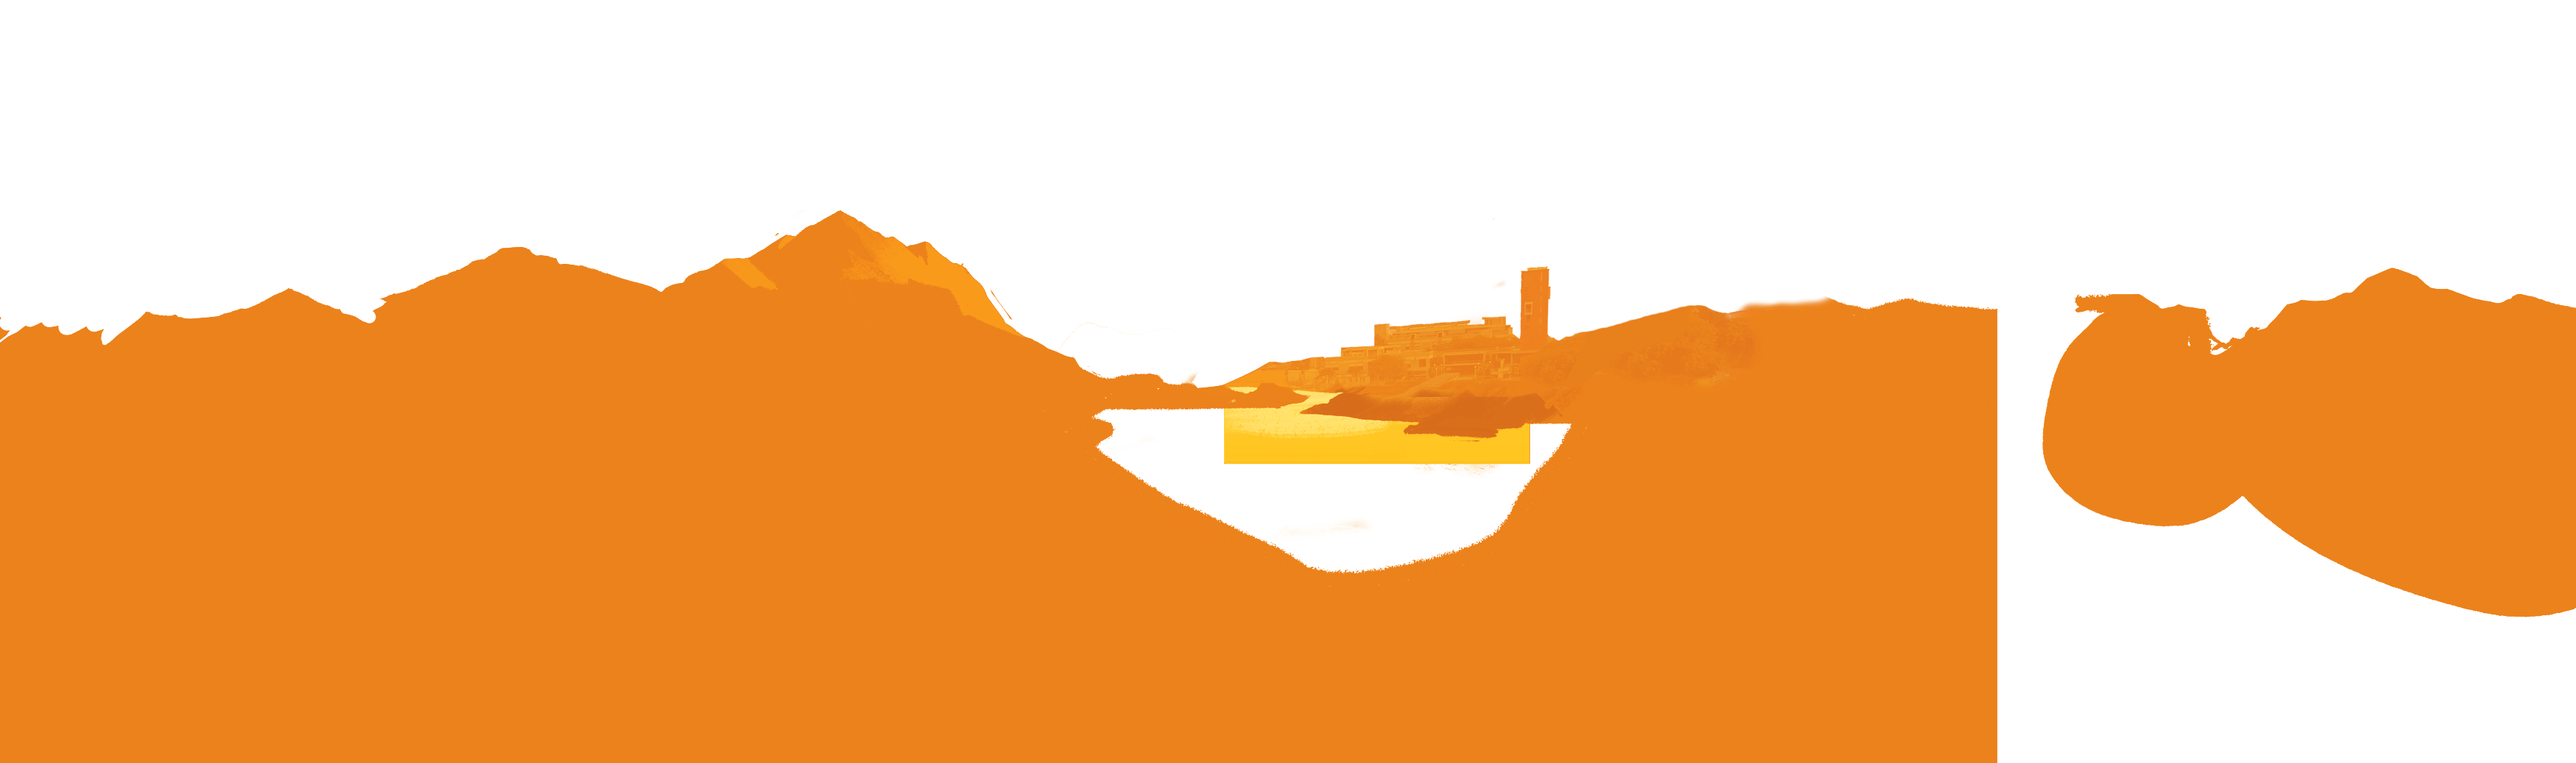
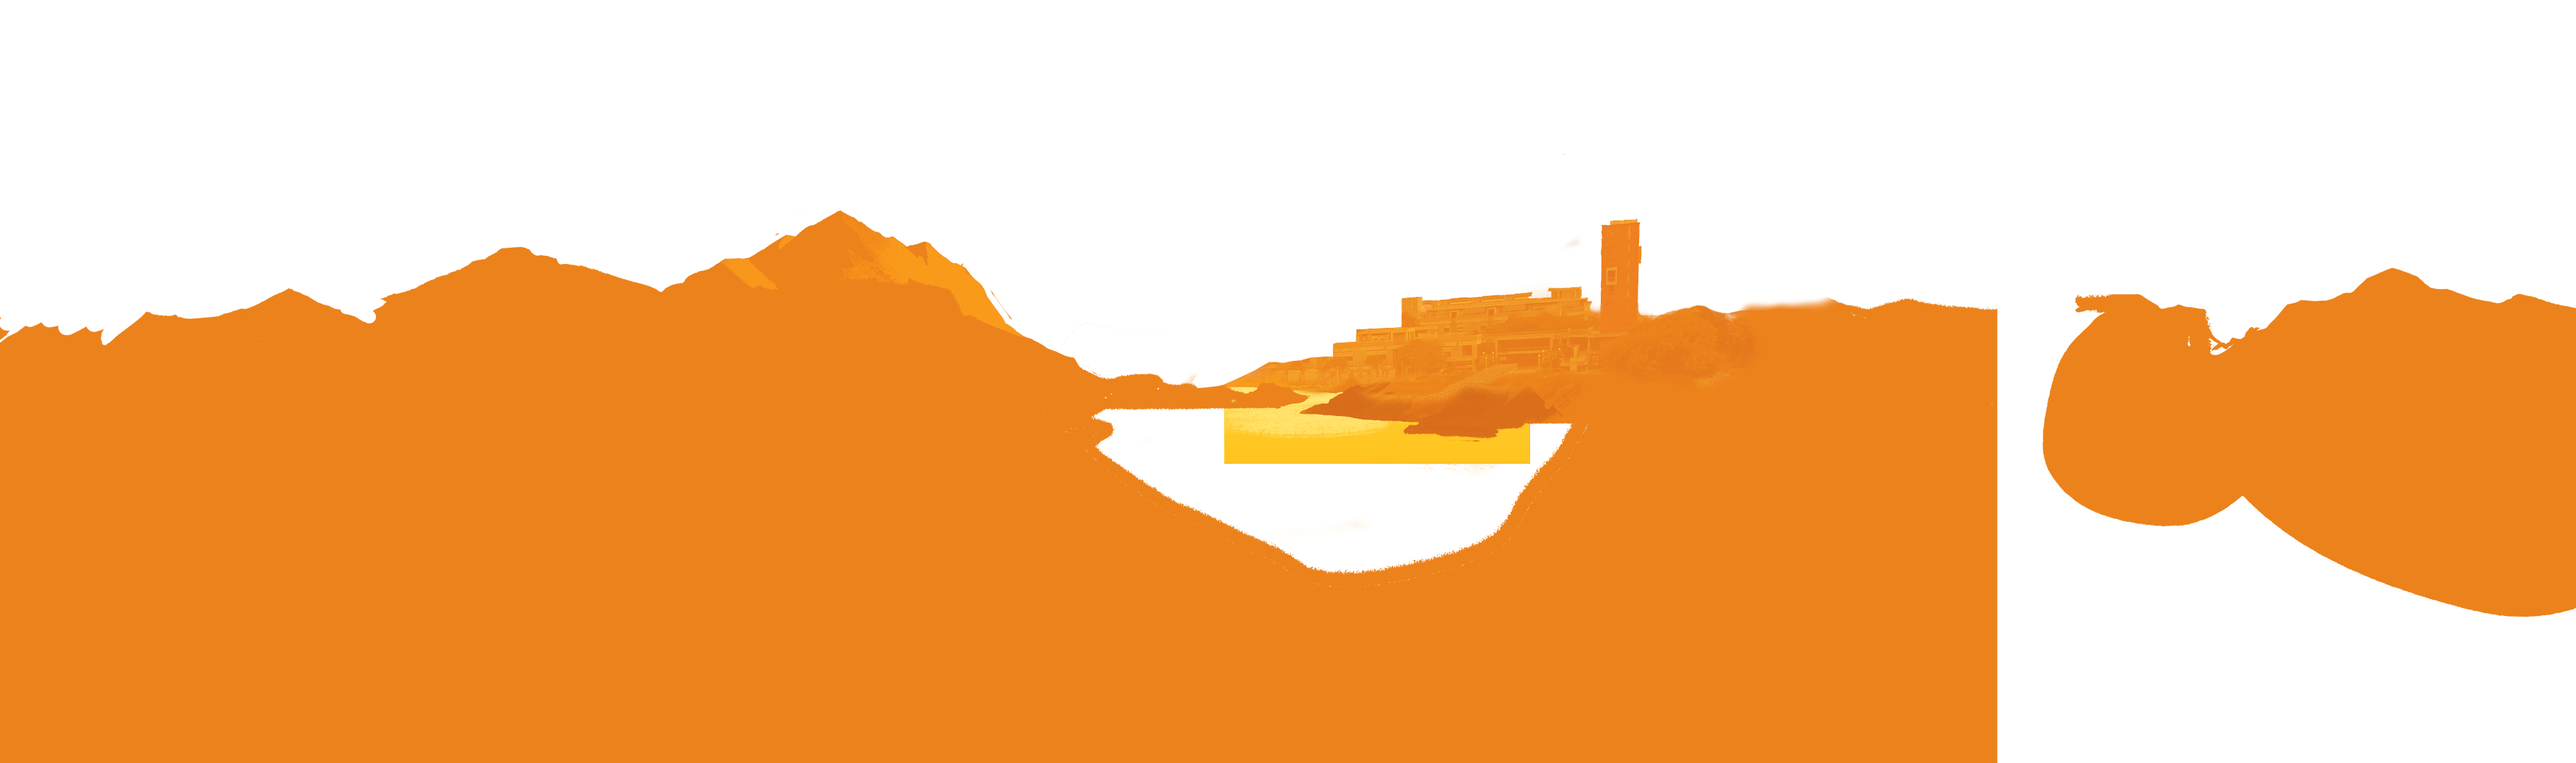
parallax f
pf

Changed region(s): [[0.4983, 0.2775, 0.6851, 0.4933], [0.6851, 0.3699, 0.7163, 0.4008]]

diff --git a/script.js b/script.js
@@ -1,193 +1,22 @@
-import * as $ from '//unpkg.com/three@0.118.3/build/three.module.js'
-import { OrbitControls } from '//unpkg.com/three@0.118.3/examples/jsm/controls/OrbitControls.js'
-import { EffectComposer } from '//unpkg.com/three@0.118.3/examples/jsm/postprocessing/EffectComposer'
-import { RenderPass } from '//unpkg.com/three@0.118.3/examples/jsm/postprocessing/RenderPass'
-import { UnrealBloomPass } from '//unpkg.com/three@0.118.3/examples/jsm/postprocessing/UnrealBloomPass'
+function castParallax() {
 
-// ----
-// Boot
-// ----
+	var opThresh = 350;
+	var opFactor = 750;
 
-const renderer = new $.WebGLRenderer({ antialias: true });
-const scene = new $.Scene();
-const camera = new $.PerspectiveCamera(75, 2, 0.1, 100);
-const controls = new OrbitControls(camera, renderer.domElement);
-const composer = new EffectComposer(renderer);
-const res = new $.Vector2();
-window.addEventListener('resize', () => {
-    const { clientWidth, clientHeight } = renderer.domElement;
-    renderer.setPixelRatio(window.devicePixelRatio);
-    renderer.setSize(clientWidth, clientHeight, false);
-    camera.aspect = clientWidth / clientHeight;
-    camera.updateProjectionMatrix();
-    composer.setPixelRatio(window.devicePixelRatio);
-    composer.setSize(clientWidth, clientHeight);
-    renderer.getDrawingBufferSize(res);
-});
-document.body.prepend(renderer.domElement);
-window.dispatchEvent(new Event('resize'));
-renderer.setAnimationLoop(t => {
-    composer.render();
-    controls.update();
-});
+	window.addEventListener("scroll", function(event){
 
-// ----
-// Main
-// ---- 
+		var top = this.pageYOffset;
 
-// #2374C6, #C20F00, #FFDD22, #FFFFFF, and #000000
+		var layers = document.getElementsByClassName("parallax");
+		var layer, speed, yPos;
+		for (var i = 0; i < layers.length; i++) {
+			layer = layers[i];
+			speed = layer.getAttribute('data-speed');
+			var yPos = -(top * speed / 100);
+			layer.setAttribute('style', 'transform: translate3d(0px, ' + yPos + 'px, 0px)');
 
-const BLUEISH = '#2374C6';
-const REDISH = '#C20F00';
-const YELLOWISH = '#FFDD22';
-const BLACK = '#000000';
-const WHITE = '#FFFFFF';
-const SIZE = 1;
-
-scene.background = new $.Color(BLUEISH);
-camera.position.set(0, 8, 0);
-
-renderer.shadowMap.enabled = true;
-
-const light = new $.DirectionalLight(WHITE, 1.5);
-light.position.set(2, 1, -1);
-light.castShadow = true;
-light.shadow.camera.near = .1;
-light.shadow.camera.far = 20;
-light.shadow.mapSize.set(1024, 1024);
-light.shadow.bias = -0.005;
-scene.add(light);
-
-//// Ground
-
-const g = new $.BoxBufferGeometry(100, 0.001, 100, 100, 1, 100);
-const mat = new $.ShadowMaterial({ color: BLACK });
-const mesh = new $.Mesh(g, mat);
-mesh.position.y = -SIZE / 2;
-mesh.receiveShadow = true;
-scene.add(mesh);
-
-//// Box
-
-class Box {
-    constructor(color, size) {
-        this.size = size;
-        this.mat = this.buildMaterial(color);
-        this.pivot = {};
-        this.mesh = this.buildBox();
-    }
-    buildPivot(name, w, h, d, x, y, z, pvx, pvy, pvz) {
-        const mesh = new $.Mesh(new $.BoxBufferGeometry(w, h, d), this.mat);
-        mesh.position.set(x, y, z);
-        mesh.castShadow = true;
-        mesh.receiveShadow = true;
-        const pivot = new $.Mesh();
-        pivot.position.set(pvx, pvy, pvz);
-        pivot.add(mesh);
-        this.pivot[name] = pivot;
-        return pivot;
-    }
-    buildMaterial(color) {
-        return new $.MeshLambertMaterial({ color, transparent: true });
-    }
-    buildBox() {
-        const SZ = this.size;
-        const S = SZ / 2; // box half size
-        const T = SZ / 100; // thickness
-        const root = new $.Mesh();
-        root.add(this.buildPivot("right", T, SZ, SZ, 0, S, 0, S, -S, 0));
-        root.add(this.buildPivot("left", T, SZ, SZ, 0, S, 0, -S, -S, 0));
-        root.add(this.buildPivot("back", SZ, SZ, T, 0, S, 0, 0, -S, -S));
-        const front = this.buildPivot("front", SZ, SZ, T, 0, S, 0, 0, -S, S);
-        root.add(front);
-        const top = this.buildPivot("top", SZ, T, SZ, 0, 0, -S, 0, S * 2, 0);
-        front.add(top);
-        const bottom = this.buildPivot("bottom", SZ, T, SZ, 0, -S, 0, 0, 0, 0);
-        root.add(bottom);
-        return root;
-    }
-    animate(duration) {
-        return new Promise((onComplete) => {
-            const defaults = {
-                ease: 'bounce'
-            };
-            gsap.timeline({ onComplete, defaults, repeat: -1 })
-                .addLabel("❤")
-                .to(this.pivot.front.rotation, { x: Math.PI, duration })
-                .to(this.pivot.top.rotation, { x: Math.PI, duration }, "❤")
-                .to(this.pivot.right.rotation, { z: -Math.PI, duration }, "❤")
-                .to(this.pivot.left.rotation, { z: Math.PI, duration }, "❤")
-                .to(this.pivot.back.rotation, { x: -Math.PI, duration }, "❤")
-                .to(this.mesh.position, { y: this.size, duration, ease: 'elastic' }, "❤");
-        });
-    }
+		}
+	});
 }
 
-//// Make Boxes
-
-(async function () {
-    const colors = [YELLOWISH, REDISH, WHITE];
-    const map = [
-        "0 0 0 0 0 0 0 0 0 0 0 0 0 0 0 0 0 0 0 0 0 0 0 0 0 0 0 0 0 0 0 0 0 0 0 0 0 0 0 0",
-"0 0 0 0 0 0 0 0 0 0 0 0 0 0 0 0 0 0 0 0 0 0 0 0 0 0 0 0 0 0 0 0 0 0 0 0 0 0 0 0",
-"0 0 0 0 0 0 0 0 0 0 0 0 0 0 0 0 2 2 2 2 2 2 2 2 2 2 0 0 0 0 0 0 0 0 0 0 0 0 0 0",
-"0 0 0 0 0 0 0 0 0 0 0 0 0 2 2 2 2 2 2 1 1 1 2 2 2 2 2 2 0 0 0 0 0 0 0 0 0 0 0 0",
-"0 0 0 0 0 0 0 0 0 0 0 0 2 2 2 1 1 1 1 1 1 1 1 1 1 1 2 2 2 2 0 0 0 0 0 0 0 0 0 0",
-"0 0 0 0 0 0 0 0 0 0 2 2 2 1 1 1 1 1 2 2 2 1 1 1 2 2 1 1 1 2 2 0 0 0 0 0 0 0 0 0",
-"0 0 0 0 0 0 0 0 0 2 2 2 1 1 2 2 1 1 2 2 2 1 1 2 2 2 1 1 1 1 2 2 0 0 0 0 0 0 0 0",
-"0 0 0 0 0 0 0 0 2 2 1 1 1 2 2 2 1 1 1 2 2 1 1 2 2 2 1 1 1 1 1 2 2 0 0 0 0 0 0 0",
-"0 0 0 0 0 0 0 2 2 1 1 1 1 1 2 2 1 1 1 2 2 1 1 2 2 1 1 1 2 2 1 1 2 2 0 0 0 0 0 0",
-"0 0 0 0 0 0 0 2 2 1 2 1 1 1 2 2 2 1 1 1 1 1 1 1 2 1 1 1 2 2 2 1 1 2 2 0 0 0 0 0",
-"0 0 0 0 0 0 2 2 1 2 2 2 1 1 1 1 1 1 1 1 1 1 1 1 1 1 1 2 2 2 1 1 1 1 2 0 0 0 0 0",
-"0 0 0 0 0 0 2 1 1 2 2 2 2 1 1 1 1 1 1 1 1 1 1 1 1 1 1 2 2 1 1 1 1 1 2 2 0 0 0 0",
-"0 0 0 0 0 2 2 1 1 1 2 2 2 1 1 1 1 1 1 1 1 1 1 1 1 1 1 1 1 1 1 1 2 1 1 2 0 0 0 0",
-"0 0 0 0 0 2 1 1 1 1 1 1 1 1 1 1 1 1 3 3 3 3 3 3 1 1 1 1 1 1 2 2 2 2 1 2 2 0 0 0",
-"0 0 0 0 2 2 1 2 2 1 1 1 1 1 1 1 3 3 2 2 2 2 2 3 1 1 1 1 1 1 2 2 2 2 1 1 2 0 0 0",
-"0 0 0 0 2 2 1 2 2 2 2 1 1 1 1 3 3 2 2 2 2 2 2 2 2 3 1 1 1 1 2 1 1 1 1 1 2 0 0 0",
-"0 0 0 0 2 2 1 2 2 2 2 1 1 1 3 3 2 2 2 2 2 2 2 2 2 3 1 1 1 1 1 1 1 1 1 1 2 2 0 0",
-"0 0 0 0 2 2 1 1 1 1 1 1 1 1 3 3 2 2 2 2 1 2 2 2 2 2 3 1 1 1 1 1 1 1 2 1 2 2 0 0",
-"0 0 0 0 2 2 1 1 1 1 1 1 1 1 3 3 2 2 2 1 1 1 2 2 2 2 3 1 1 1 1 2 2 2 2 1 2 2 0 0",
-"0 0 0 0 2 2 1 1 1 1 1 1 1 1 3 3 2 2 2 1 1 1 2 2 2 2 3 1 1 1 1 2 2 2 2 1 2 2 0 0",
-"0 0 0 0 2 2 1 2 2 2 2 1 1 1 3 3 2 2 2 2 1 2 2 2 2 2 3 1 1 1 1 1 1 1 1 1 2 2 0 0",
-"0 0 0 0 2 2 1 2 2 2 2 1 1 1 3 3 2 2 2 2 2 2 2 2 2 3 1 1 1 1 1 1 1 1 1 1 2 2 0 0",
-"0 0 0 0 2 2 1 2 2 1 1 1 1 1 1 3 3 2 2 2 2 2 2 2 2 3 1 1 1 1 2 1 1 1 1 1 2 0 0 0",
-"0 0 0 0 0 2 1 1 1 1 1 1 1 1 1 1 1 3 3 2 2 2 2 3 1 1 1 1 1 1 2 2 2 2 1 1 2 0 0 0",
-"0 0 0 0 0 2 1 1 1 1 1 2 2 1 1 1 1 1 3 3 3 3 3 3 1 1 1 1 1 1 2 2 2 2 1 2 2 0 0 0",
-"0 0 0 0 0 2 2 1 1 2 2 2 2 1 1 1 1 1 1 1 1 1 1 1 1 1 1 1 1 1 1 1 2 1 1 2 0 0 0 0",
-"0 0 0 0 0 0 2 1 1 2 2 2 1 1 1 1 1 1 1 1 1 1 1 1 1 1 1 2 2 1 1 1 1 1 2 2 0 0 0 0",
-"0 0 0 0 0 0 2 2 1 2 2 1 1 1 2 2 1 1 1 1 1 1 1 1 1 1 1 2 2 2 1 1 1 1 2 0 0 0 0 0",
-"0 0 0 0 0 0 0 2 2 1 1 1 1 1 2 2 1 1 1 1 1 1 1 1 1 1 1 1 2 2 2 1 1 2 2 0 0 0 0 0",
-"0 0 0 0 0 0 0 0 2 1 1 1 1 2 2 2 1 1 1 1 1 1 1 1 1 1 1 1 2 2 1 1 2 2 0 0 0 0 0 0",
-"0 0 0 0 0 0 0 0 2 2 1 1 1 2 2 2 1 1 1 1 1 1 1 1 1 1 1 1 1 1 1 2 2 0 0 0 0 0 0 0",
-"0 0 0 0 0 0 0 0 0 2 2 2 1 1 2 1 1 1 1 1 2 1 1 1 1 1 1 1 1 1 2 2 0 0 0 0 0 0 0 0",
-"0 0 0 0 0 0 0 0 0 0 0 2 2 1 1 1 1 1 1 2 2 2 2 1 1 1 1 1 2 2 2 0 0 0 0 0 0 0 0 0",
-"0 0 0 0 0 0 0 0 0 0 0 0 2 2 2 1 1 1 2 2 1 1 2 1 1 1 1 2 2 2 0 0 0 0 0 0 0 0 0 0",
-"0 0 0 0 0 0 0 0 0 0 0 0 0 0 2 1 1 1 1 2 1 1 2 1 1 1 1 2 0 0 0 0 0 0 0 0 0 0 0 0",
-"0 0 0 0 0 0 0 0 0 0 0 0 0 0 0 0 0 0 0 2 2 2 2 0 0 0 0 0 0 0 0 0 0 0 0 0 0 0 0 0",
-"0 0 0 0 0 0 0 0 0 0 0 0 0 0 0 0 0 1 1 1 0 0 1 1 1 0 0 0 0 0 0 0 0 0 0 0 0 0 0 0",
-"0 0 0 0 0 0 0 0 0 0 0 0 0 0 0 0 0 0 1 1 1 1 1 1 0 0 0 0 0 0 0 0 0 0 0 0 0 0 0 0",
-    ];
-    const pattern = new $.Mesh();
-    const Z = map.length;
-    const X = map[0].split(' ').length;
-    for (const [z, row] of map.entries()) {
-        for (let [x, v] of row.split(' ').entries()) {
-            v = Number(v);
-            if (v) {
-                const box = new Box(colors[v - 1], SIZE);
-                box.mesh.position.set(x * SIZE, 0, z * SIZE);
-                pattern.add(box.mesh);
-                box.animate(Math.random() * 2 + 1);
-            }
-        }
-    }
-    pattern.position.x = pattern.position.z = -SIZE * map.length / 2;
-    scene.add(pattern);
-}());
-
-//// PostProcessing
-
-const renderPass = new RenderPass(scene, camera);
-const bloomPass = new UnrealBloomPass(res, .4, 1, 0.38);
-composer.addPass(renderPass);
-composer.addPass(bloomPass);
+document.body.onload = castParallax();

diff --git a/style.css b/style.css
@@ -1,24 +1,110 @@
-@import url('https://fonts.googleapis.com/css2?family=Nova+Mono&display=swap');
-
-canvas {
-    display: grid; width: 100%; height: 100vh;
-    position: fixed; top: 0; left: 0;
-    cursor: -webkit-grab;
-    cursor: grab;
+/* PARALLAX */
+.body {
+  margin: -5px;
 }
 
-a {
-    display: block;
-    color: black;
-    padding: 5vmin;
-    width: -webkit-min-content;
-    width: -moz-min-content;
-    width: min-content;
-    font-family: 'nova mono', monospace;
-    position: relative; z-index: 1;
+.keyart, .keyart_layer {
+  height: 1000px;
 }
 
-body {
-    display: block;
-    height: 100vh;
+#parallax {
+  display: block;
+}
+
+.keyart {
+  position: relative;
+  z-index: 10;
+}
+
+.keyart_layer {
+  background-position: bottom center;
+  background-size: auto 1038px;
+  background-repeat: repeat-x;
+  width: 100%;
+  position: absolute;
+}
+
+.keyart_layer.parallax {
+  position: fixed;
+}
+
+#keyart-0 {
+  background-image: url("http://www.firewatchgame.com/images/parallax/parallax0.png");
+  background-color: #ffaf1b;
+}
+
+#keyart-1 {
+  background-image: url("parallax1.png");
+}
+
+#keyart-2 {
+  background-image: url("parallax2.png");
+}
+
+#keyart-3 {
+  background-image: url("http://www.firewatchgame.com/images/parallax/parallax3.png");
+}
+
+#keyart-4 {
+  background-image: url("http://www.firewatchgame.com/images/parallax/parallax4.png");
+}
+
+#keyart-5 {
+  background-image: url("http://www.firewatchgame.com/images/parallax/parallax5.png");
+}
+
+#keyart-6 {
+  background-image: url("http://www.firewatchgame.com/images/parallax/parallax6.png");
+}
+
+#keyart-7 {
+  background-image: url("http://www.firewatchgame.com/images/parallax/parallax7.png");
+}
+
+#keyart-8 {
+  background-image: url("http://www.firewatchgame.com/images/parallax/parallax8.png");
+}
+
+#keyart-scrim {
+  background-color: #ffaf00;
+  opacity: 0;
+}
+
+@media (-webkit-min-device-pixel-ratio: 1.5), (min-resolution: 144dpi) {
+  #keyart-0 {
+    background-image: url("http://www.firewatchgame.com/images/parallax/parallax0@2x.png");
+    background-color: #ffaf1b;
+  }
+
+  #keyart-1 {
+    background-image: url("http://www.firewatchgame.com/images/parallax/parallax1@2x.png");
+  }
+
+  #keyart-2 {
+    background-image: url("http://www.firewatchgame.com/images/parallax/parallax2@2x.png");
+  }
+
+  #keyart-3 {
+    background-image: url("http://www.firewatchgame.com/images/parallax/parallax3@2x.png");
+  }
+
+  #keyart-4 {
+    background-image: url("http://www.firewatchgame.com/images/parallax/parallax4@2x.png");
+  }
+
+  #keyart-5 {
+    background-image: url("http://www.firewatchgame.com/images/parallax/parallax5@2x.png");
+  }
+
+  #keyart-6 {
+    background-image: url("http://www.firewatchgame.com/images/parallax/parallax6@2x.png");
+  }
+
+  #keyart-7 {
+    background-image: url("http://www.firewatchgame.com/images/parallax/parallax7@2x.png");
+  }
+
+  #keyart-8 {
+    background-image: url("http://www.firewatchgame.com/images/parallax/parallax8@2x.png");
+  }
 }

diff --git a/index.html b/index.html
@@ -2,16 +2,26 @@
 <html lang="en" >
 <head>
   <meta charset="UTF-8">
-  <title>Sagmayam</title>
-  <link rel="stylesheet" href="https://cdnjs.cloudflare.com/ajax/libs/meyer-reset/2.0/reset.min.css">
-<link rel="stylesheet" href="./style.css">
+  <title>CodePen - Parallax Example: Firewatch Launch Site</title>
+  <link rel="stylesheet" href="./style.css">
 
 </head>
 <body>
 <!-- partial:index.partial.html -->
-
+<div class="keyart" id="parallax">
+  <div class="keyart_layer parallax" id="keyart-0" data-speed="2"></div>		<!-- 00.0 -->
+  <div class="keyart_layer parallax" id="keyart-1" data-speed="5"></div>	<!-- 12.5 -->
+  <div class="keyart_layer parallax" id="keyart-2" data-speed="11"></div>		<!-- 25.0 -->
+  <div class="keyart_layer parallax" id="keyart-3" data-speed="16"></div>	<!-- 37.5 -->
+  <div class="keyart_layer parallax" id="keyart-4" data-speed="26"></div>		<!-- 50.0 -->
+  <div class="keyart_layer parallax" id="keyart-5" data-speed="36"></div>	<!-- 62.5 -->
+  <div class="keyart_layer parallax" id="keyart-6" data-speed="49"></div>		<!-- 75.0 -->
+  <div class="keyart_layer" id="keyart-scrim"></div>
+  <div class="keyart_layer parallax" id="keyart-7" data-speed="69"></div>		<!-- 87.5 -->
+  <div class="keyart_layer" id="keyart-8" data-speed="100"></div>		<!-- 100. -->
+</div>
 <!-- partial -->
-  <script src='https://cdnjs.cloudflare.com/ajax/libs/gsap/3.5.0/gsap.min.js'></script><script type="module" src="./script.js"></script>
+  <script  src="./script.js"></script>
 
 </body>
 </html>
